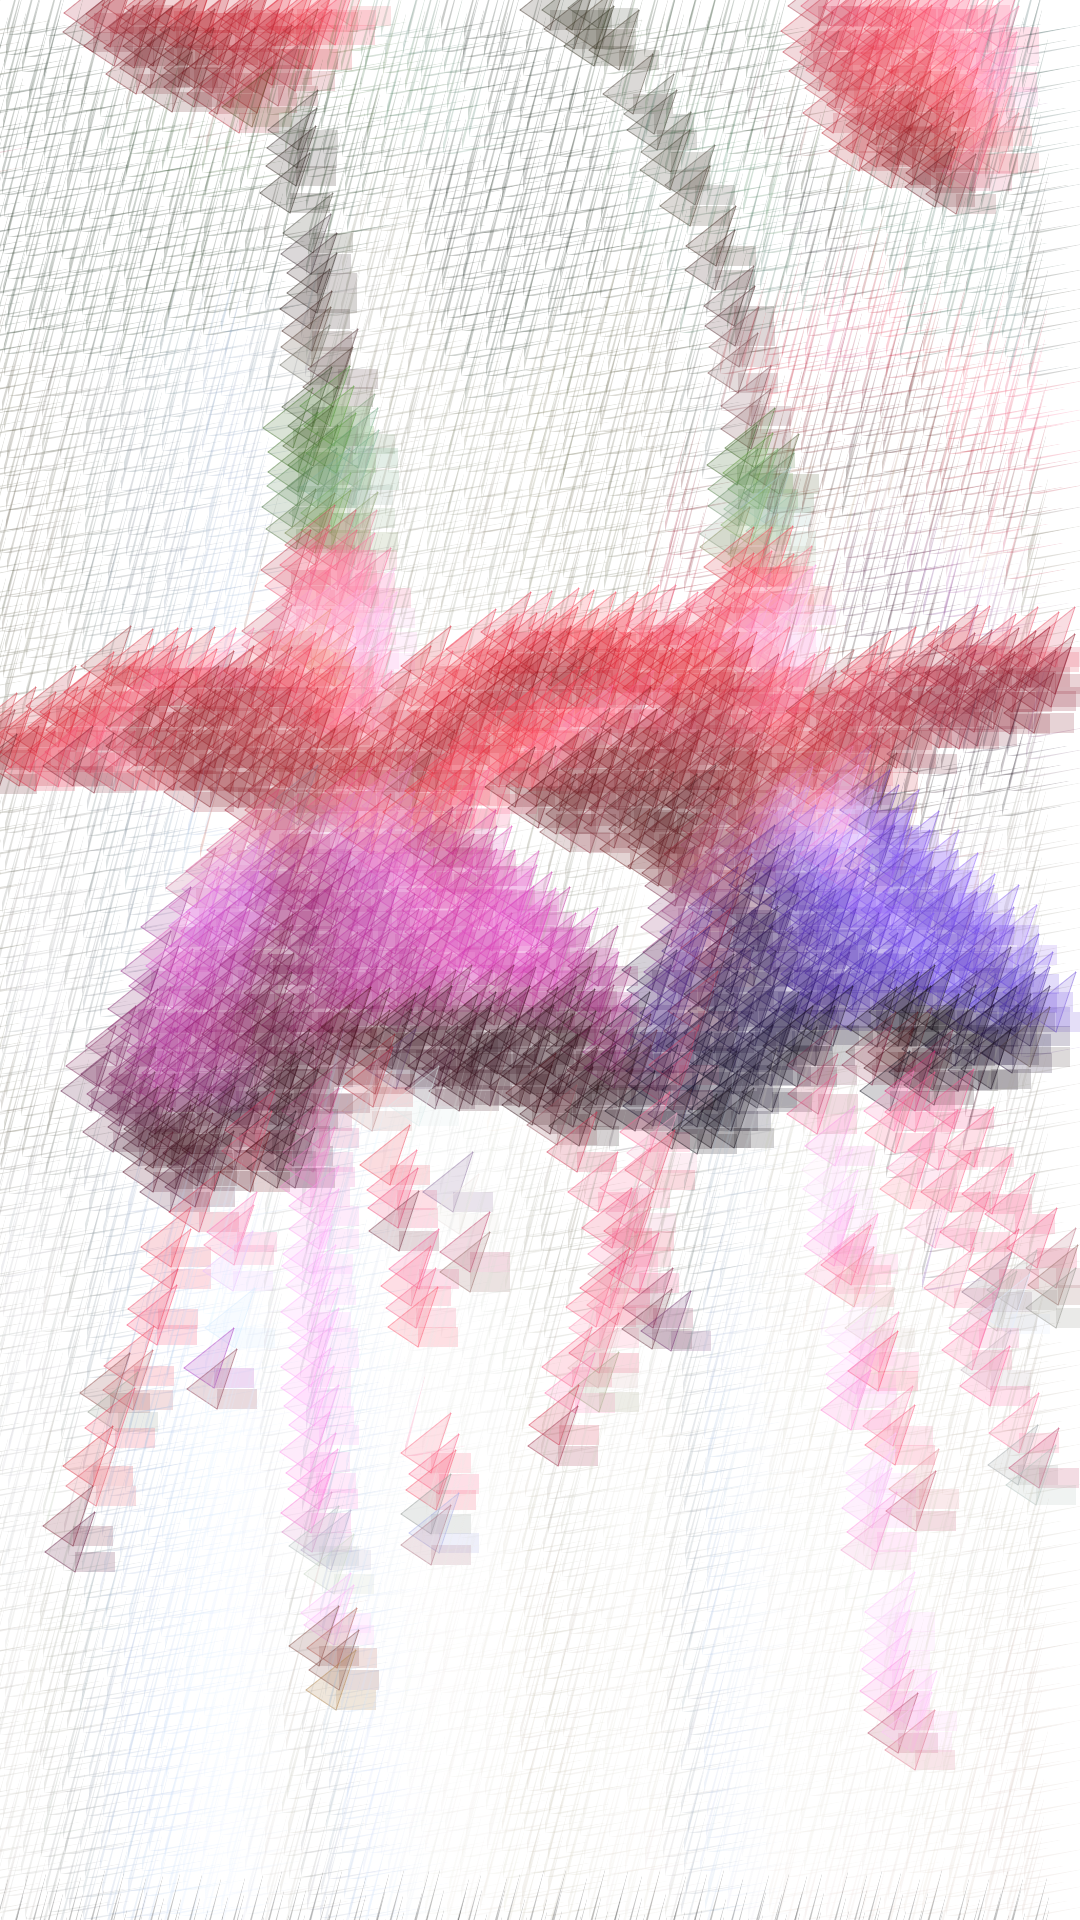
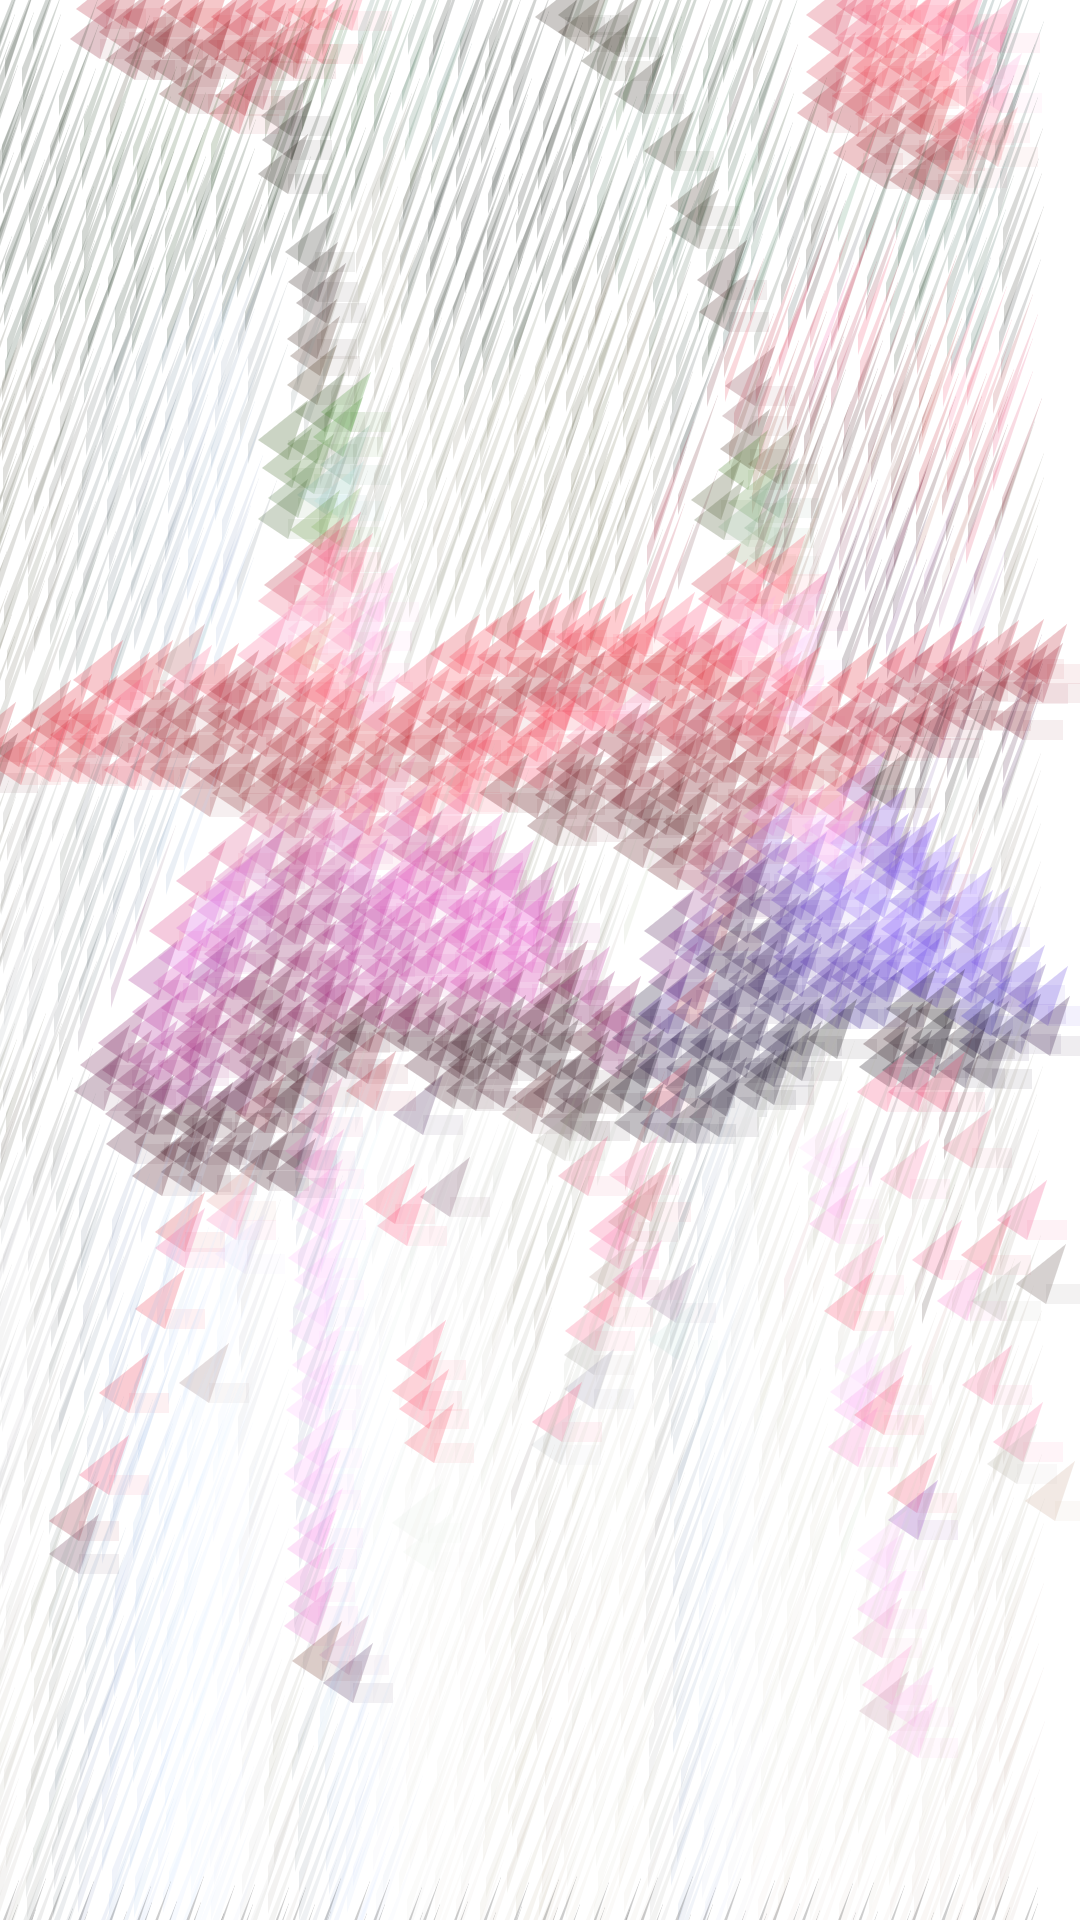
cystal flowers filter

diff --git a/sketch.js b/sketch.js
@@ -2,12 +2,15 @@ let sourceImg=null;
 let maskImg=null;
 let renderCounter=0;
 
- let elementSpacing = 20;
+ let elementSpacing = 27;
  let circleSize = 10;
  let squareSize = 30;
  let triSize = 20;
- let triSize2 = 30;
- let triSize3 = 40;
+ let triSize2 = 40;
+ let triSize3 = 60;
+ let tri = 20;
+ let tri2 = 30;
+ let tri3 = 40;
 
 function preload() {
   sourceImg = loadImage("input_1.jpg");
@@ -30,6 +33,7 @@ function draw () {
   for(let i=0;i<1080/elementSpacing;i++) {
     let x = int(i * elementSpacing);
     let y = int(renderCounter * elementSpacing);
+    let istriangles = false;
     //let x = floor(random(sourceImg.width));
     //let y = floor(random(sourceImg.height));
     let pix = sourceImg.get(x, y);
@@ -58,20 +62,21 @@ function draw () {
       //ellipse(x, y, pointSize, pointSize);
       //ellipse(x+30, y+60, circleSize, circleSize+40);
       //triangle(x+30, y+60, z+10, circleSize, circleSize+40, circleSize);
-fill(pix[0], pix[1], pix[2], 50);
+fill(pix[0], pix[1], pix[2], 20);
  push();
       translate(-10, 5);
       //triangle(x-triSize3, y, x+triSize2, y-triSize3, x, y+triSize);
       //triangle(x-triSize3, y, x+triSize, y-triSize2, x, y+triSize);
    
-      triangle(y, x+triSize3, y, x-triSize2, y, x);
-      rect(x, y, triSize3, triSize);
+      triangle(y, x+tri3, y, x-tri2, y, x);
+      rect(x, y, tri3, tri);
       //triangle(x-triSize3, y, x-triSize3, y, x, y+triSize3);
       //triangle(y, x-triSize, y, x-triSize3, x, x);
-      stroke(pix);
-      strokeWeight(0.5);
+      //stroke(pix);
+      //strokeWeight(0.5);
       //rotate(-10);
-      triangle(x-triSize2, y, x+triSize, y-triSize3, x, y+triSize);
+      fill(pix[0], pix[1], pix[2], 70);
+      triangle(x-tri2, y, x+tri, y-tri3, x, y+tri);
 
       //triangle(y-triSize, y-triSize, y, x+triSize3, y, x+triSize2);
       //triangle(x+triSize2, x, y, x, y+triSize3, x);
@@ -85,7 +90,7 @@ fill(pix[0], pix[1], pix[2], 50);
     pop();
     }
     else {
-      fill(pix[0], pix[1], pix[2], 60);
+      fill(pix[0], pix[1], pix[2], 50);
 
       push();
       //colorMode(RGB, 50, 20, 10);
@@ -104,15 +109,19 @@ fill(pix[0], pix[1], pix[2], 50);
       //translate(0, 50);
       //rotate(30);
       //translate(100, -50);
-      triangle(x+triSize, y+triSize2, x-triSize3, y+triSize3, x-triSize2, y+triSize3);
+      //triangle(x+triSize, y+triSize2, x-triSize3, y+triSize3, x-triSize2, y+triSize3);
       //triangle(x-triSize, y-triSize, y, x+triSize3, x-triSize2, x);  
       pop();
     }
   }
   renderCounter = renderCounter + 1;
-  if(renderCounter > 400) {
+
+
+  if(renderCounter > 400 && istriangles == false) {
     console.log("Done!")
-    noLoop();
+    //noLoop();
+    istriangles = true
+    renderCounter = 0;
     // saveBlocksImages();
   }
 }

diff --git a/README.md b/README.md
@@ -2,4 +2,4 @@
 
 The images above are photos of Wellington CBD algorithmically processed with a lightly modified version of the [p5.js Pointillism example](https://p5js.org/examples/image-pointillism.html). The masks for each photo highlight various objects. Replace this text with your own which explains the source of your photos, masking, and applied algorithm.
 
-I played around with a new photo and I like how it turned out. I was thinking of having different flowers of similar colours for the theme so that it related. The mask i only msked hte flower and left the leaves out as i like it better this way. The way the triangles layered on top of each other with a transparency it looks interesting, I think though for the stroke I will leave it out, however I'm not sure. The stroke ives it a harshness to it however it reminds me of small shards of glass. Without the stroke it looks softer fuzzy like a sweater. The background I like the thin hair lines triangles so I will keep that, but i will play around with how i want the direction to be. I think this image works well so I will keep it this image along with the orchid. As for the last i was thinking of a different unique flower so that the theme is flowers and they all have similar colours but look interesting in their own ways.  
+I tested it out without the stroke and I'm still not sure whether i like it with or without it. The fuzzy lines and opacity of the triangles make it look interesting and the dangle pieces of the flower remind me of a jellyfish. The background is still drawing over hte flowers so I ask about how to fix it and I will try and get it to work. With the way it looks currently it looks like it is sparkling in a way. The density I think could be more packed together however i do like how it looks with the triangles stretched and spaced out. The image looks like pale washed out crystal lantern flowers which I quite like.  
